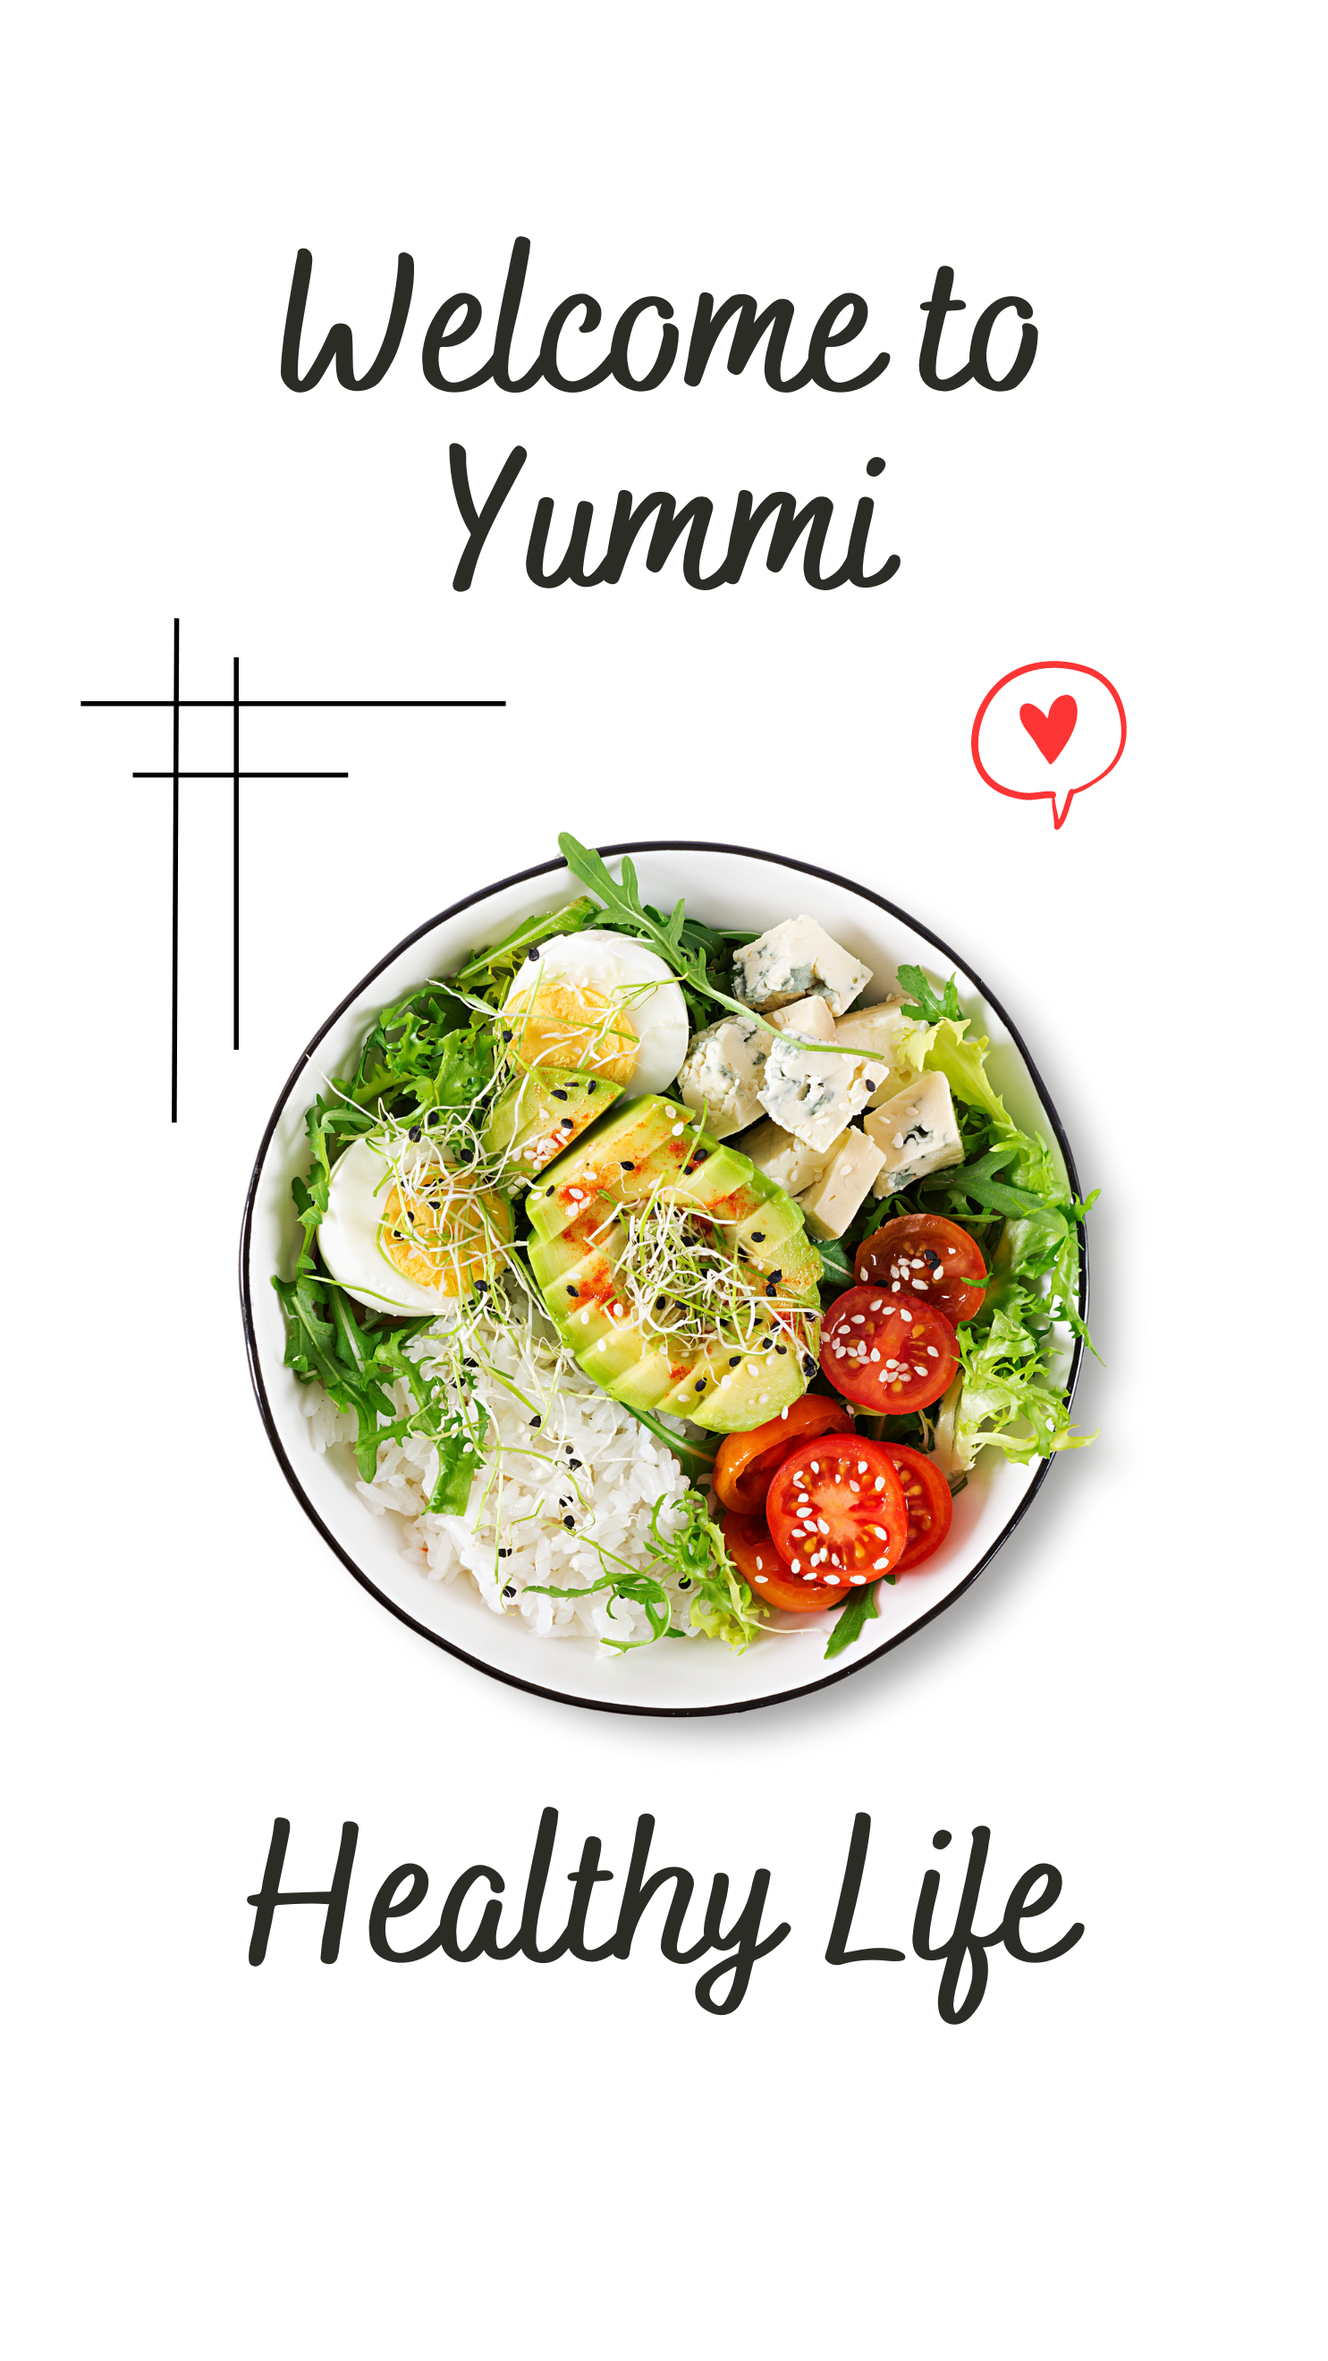
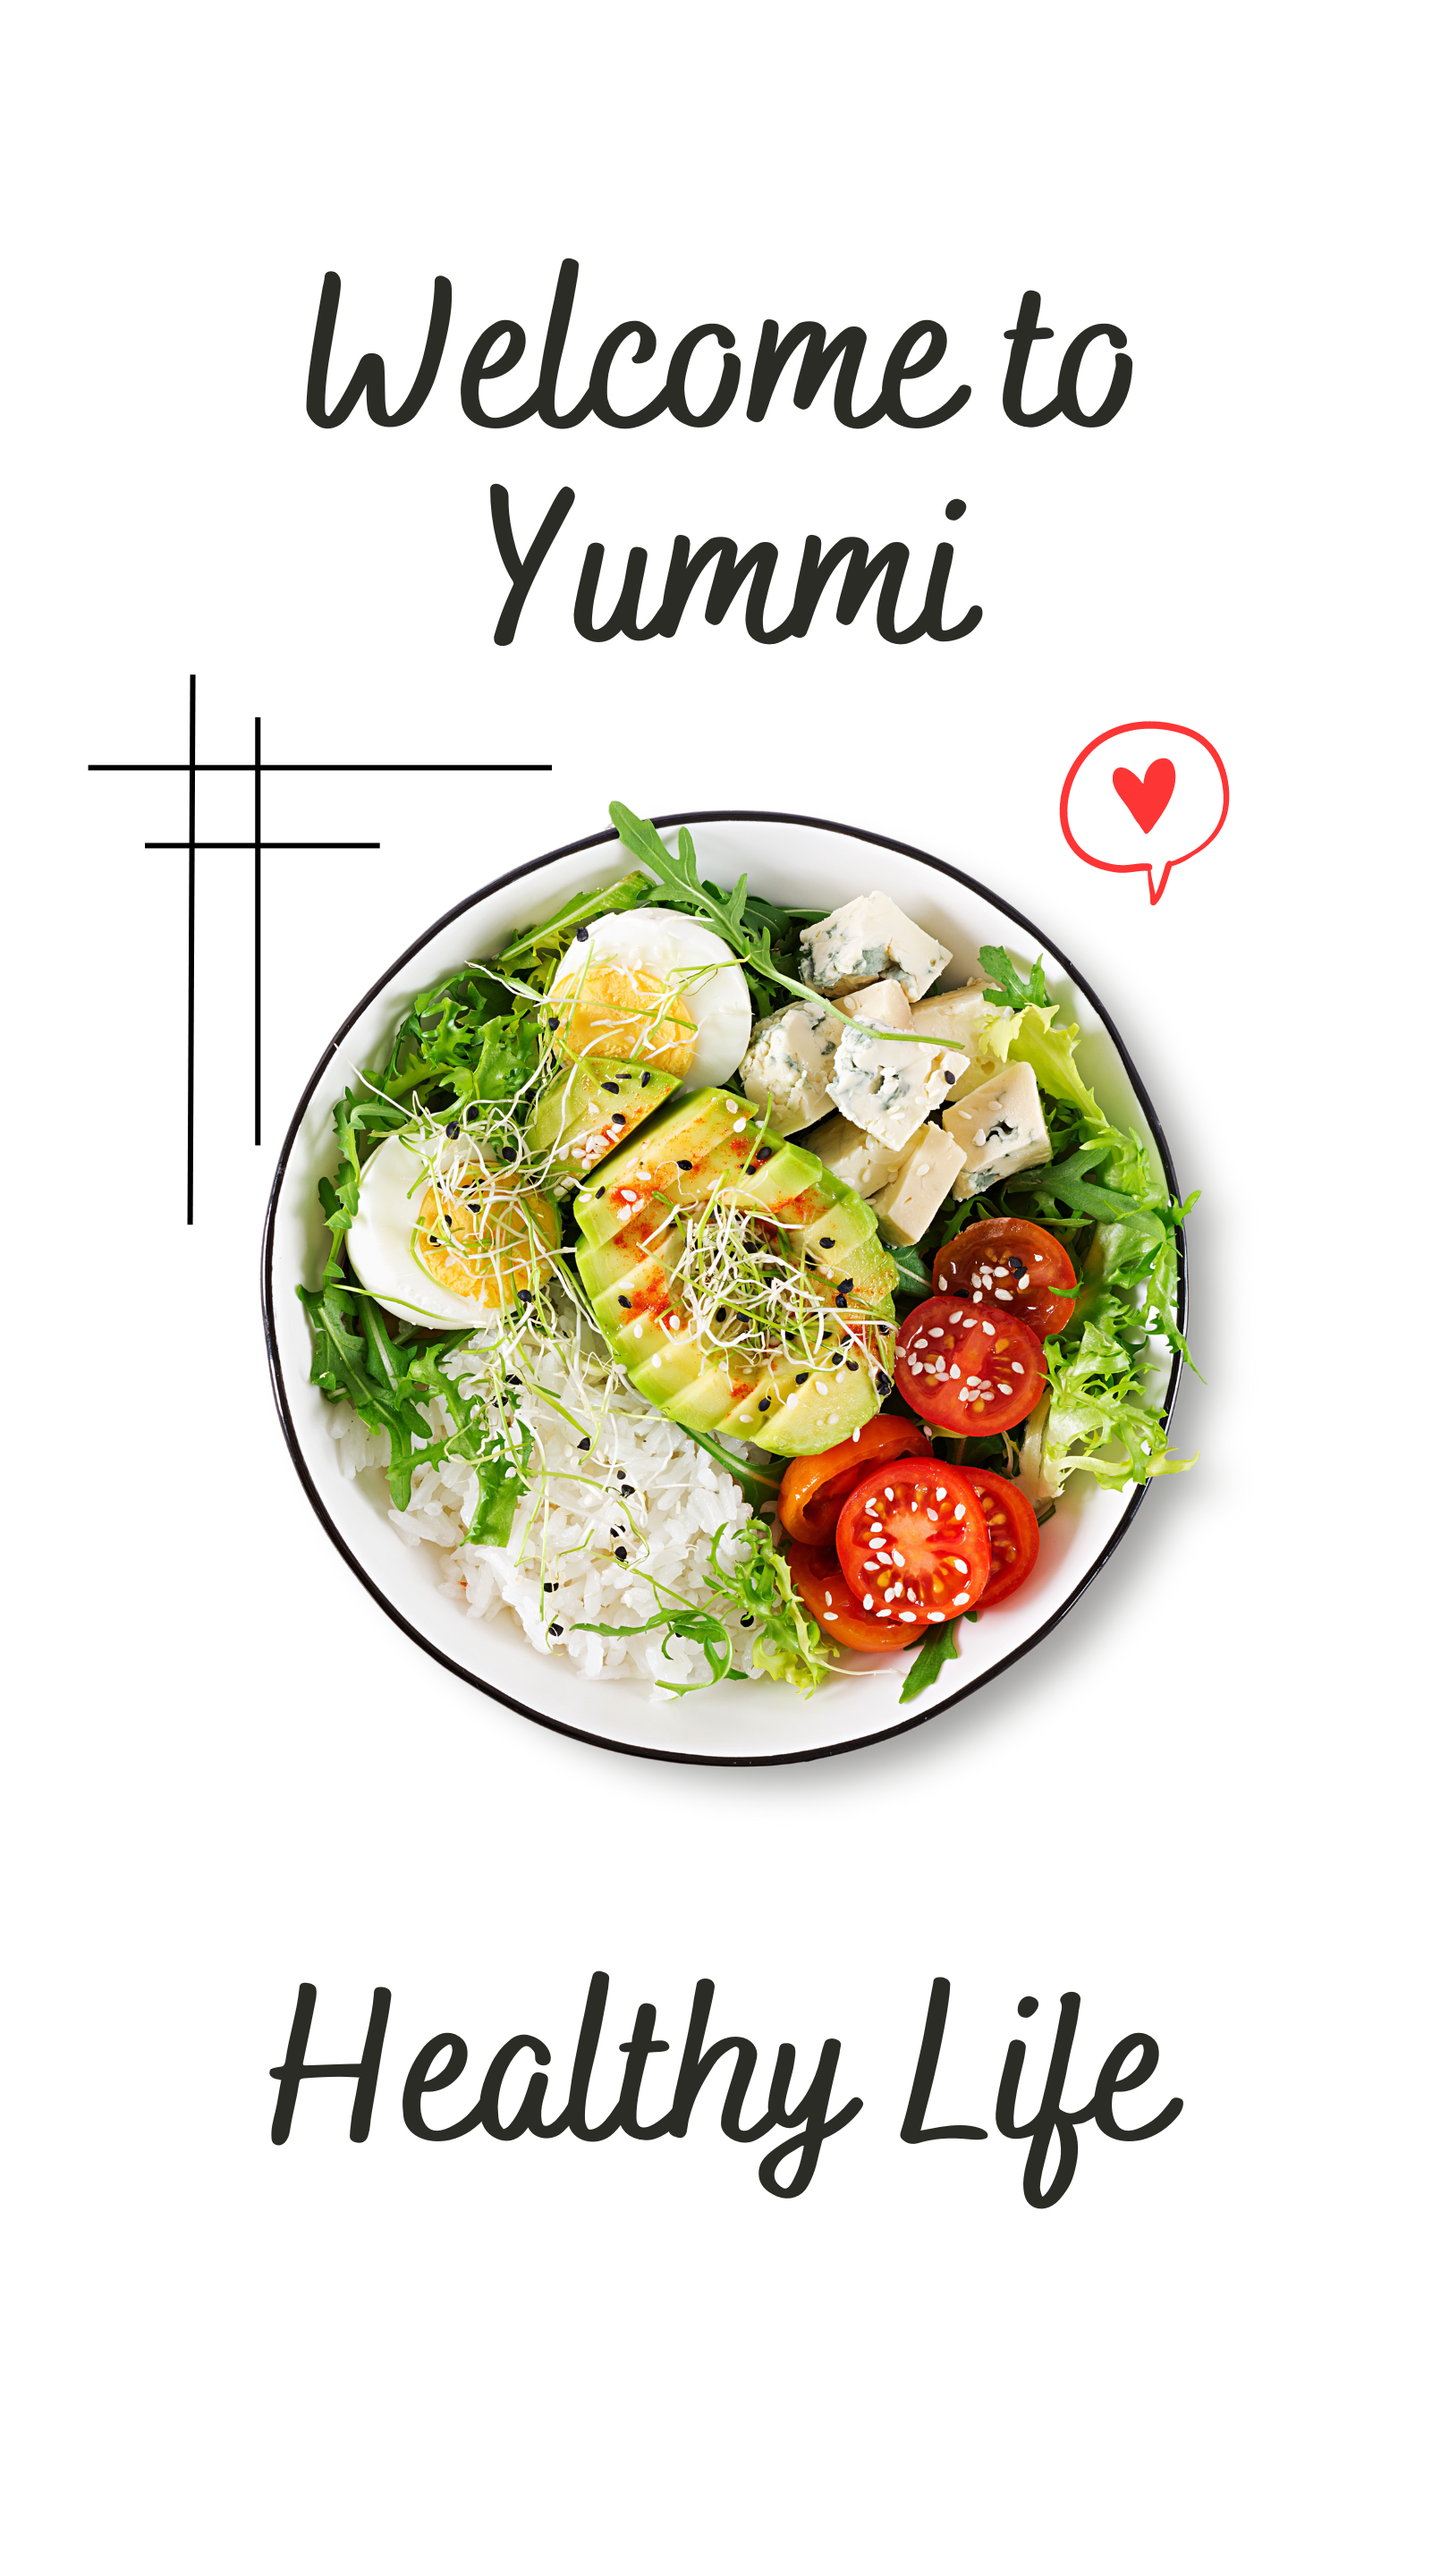
Add login and signup buttons, update font styles, and adjust image size and alignment

Changed region(s): [[0.1549, 0.3106, 0.8673, 0.7455]]

diff --git a/index.html b/index.html
@@ -8,29 +8,37 @@
     <link rel="icon" type="image/x-icon" href="Imgs/feijoada.png">
     <link rel="stylesheet" href="normalize.css">
     <link rel="stylesheet" href="style.css">
+    <link rel="preconnect" href="https://fonts.googleapis.com">
+    <link rel="preconnect" href="https://fonts.gstatic.com" crossorigin>
+    <link href="https://fonts.googleapis.com/css2?family=Cabin+Condensed:wght@400;500&display=swap" rel="stylesheet">
 </head>
 
 <body>
     <div class="div1">
         <header>
-            <a href="">Log In</a>
-            <a href="">Sign Up</a>
-            <p>Lorem ipsum dolor sit amet consectetur adipisicing elit. Officia dolores optio exercitationem maxime,
+            <div class="divLogeo1">
+                <a href="" class="optionLogueo">Log In</a>
+                <a href="" class="optionLogueo">Sign Up</a>
+            </div>
+            <p class="textLogin">Lorem ipsum dolor sit amet consectetur adipisicing elit. Officia dolores optio
+                exercitationem maxime,
                 mollitia eum adipisci nisi dignissimos rem nulla?</p>
         </header>
         <main>
             <section id="section1">
-                <button class="optionLogueo">G</button>
-                <button class="optionLogueo">A</button>
+                <div class="buttonsDiv">
+                    <button class="buttonFastLogin"><img src="Imgs/google.png" alt=""></button>
+                    <button class="buttonFastLogin"><img src="Imgs/logotipo-de-apple.png" alt=""></button>
+                </div>
                 <form action="/" method="post">
-                    <input type="text" pla ceholder="Name" name="name" class="formInput">
+                    <input type="text" placeholder="Name" name="name" class="formInput">
                     <input type="email" placeholder="Email" name="email" class="formInput">
                     <input type="password" placeholder="Password" name="password" class="formInput">
                 </form>
             </section>
             <footer>
-                Lorem ipsum dolor sit amet consectetur, adipisicing elit. Ipsa cupiditate, sequi deserunt modi magni
-                perspiciatis.
+                <p>Lorem ipsum dolor sit amet consectetur, adipisicing elit. Ipsa cupiditate, sequi deserunt modi
+                    magniperspiciatis.</p>
                 <button>Sign Up</button>
             </footer>
     </div>
@@ -38,7 +46,7 @@
     <div class="div2">
         <section id="section2">
             <img src="Imgs/Grey Minimalist Healthy Food Instagram Story.png" alt="A picture of Yummi ealthy food"
-                title="Yummi food">
+                title="Yummi food" class="foodImg">
             <h2>Lorem ipsum dolor sit amet.</h2>
             <p>Lorem, ipsum dolor sit amet consectetur adipisicing elit. Sit beatae incidunt sapiente aspernatur
                 animi,ea modi optio, repellendus numquam natus dignissimos officiis quisquam veniam ipsam.</p>

diff --git a/style.css b/style.css
@@ -1,11 +1,153 @@
+/* General */
 img{
   width: 200px;
 }
 *{
   font-family: 'Segoe UI', Tahoma, Geneva, Verdana, sans-serif;
+  box-sizing: border-box;
 }
-.body{
+body{
   display: grid;
   grid-template-columns: 1fr 1fr;
   background-color: red;
+  grid-template-rows: 100vh;
+}
+.div1{
+  background-color: rgb(248, 248, 248);
+}
+.div2{
+  background-color: rgb(32, 233, 255);
+}
+
+a{
+  text-decoration: none;
+}
+/* Left */
+/* log in */
+.divLogeo1{
+  display: flex;
+  justify-content: space-around;
+}
+.optionLogueo{
+  width: 200px;
+  height: 65px;
+  display:auto;
+  font-size: 30px;
+  font-weight: 500;
+  text-align: center;
+  color: rgb(48, 227, 255);
+  padding: 20px 5px;
+  transform: 500ms;
+}
+
+.optionLogueo:hover{
+  cursor: pointer;
+  border-bottom: 1px solid rgb(48, 227, 255);
+}
+.textLogin{
+  font-size: 20px;
+  color: black;
+  padding: 15px 20px;
+  text-align: center;
+  margin: 0px;
+}
+/* Botones */
+.buttonsDiv{
+  display: flex;
+  justify-content: space-around;
+  padding: 10px 20px 20px 20px;
+}
+
+.buttonFastLogin{
+  width: 170px;
+  display:auto;
+  font-size: 20px;
+  text-align: center;
+  padding: 12px 10px;
+  border-radius: 20px;
+  border: none;
+  background-color: rgb(208, 208, 208);
+  transition: 500ms;
+}
+
+.buttonFastLogin >img{
+  width: 20px;
+  justify-content: center;
+}
+
+.buttonFastLogin:hover{
+  cursor: pointer;
+  box-shadow: 0 0 10px rgb(37, 226, 255);
+  /* Si ponemos la animación en el hover, solo se anima al pasar el mouse*/
+}
+
+
+/* Formulario */
+form{
+  display: flex;
+  flex-direction: column;
+  justify-content: space-around;
+  padding: 10px 70px 10px 70px;
+}
+.formInput{
+  padding: 10px;
+  margin: 5px;
+  border-radius: 10px;
+}
+/* footer */
+footer{
+  display: flex;
+  flex-direction: column;
+  align-items: center;
+}
+footer p{
+  font-size: 20px;
+  text-align: center;
+  padding: 5px 30px;
+}
+footer button{
+  width: 200px;
+  font-size: 20px;
+  text-align: center;
+  padding: 12px 10px;
+  border-radius: 20px;
+  border: none;
+  background-color: rgb(208, 208, 208);
+  display: flex;
+  justify-content: center;
+  align-items: center;
+  transition: 500ms;
+}
+footer button:hover{
+  cursor: pointer;
+  box-shadow: 0 0 10px rgb(37, 226, 255);
+  /* Si ponemos la animación en el hover, solo se anima al pasar el mouse*/
+}
+
+/* Izquierda */
+/* IMG */
+#section2{
+  display: flex;
+  flex-direction: column;
+  justify-content: center;
+  align-items: center;
+}
+#section2 img{
+  width: 230px;
+  height: auto;
+  margin: auto;
+  object-fit: cover;
+}
+/* title */
+#section2 h2{
+  font-family:'Cabin Condensed', sans-serif, system-ui, -apple-system, BlinkMacSystemFont, 'Segoe UI', Roboto, Oxygen, Ubuntu, Cantarell, 'Open Sans', 'Helvetica Neue', sans-serif;
+  font-size: 35px;
+  margin: 10px;
+}
+/* Text */
+#section2 p{
+  font-size: 20px;
+  text-align: center;
+  padding: 5px 30px;
+  margin: 3px;
 }
